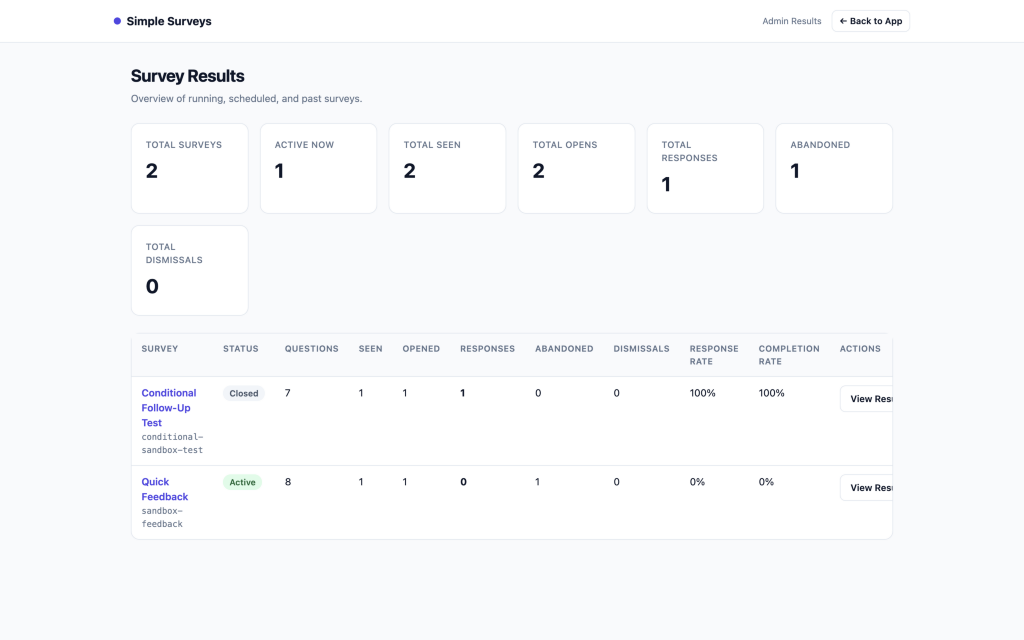
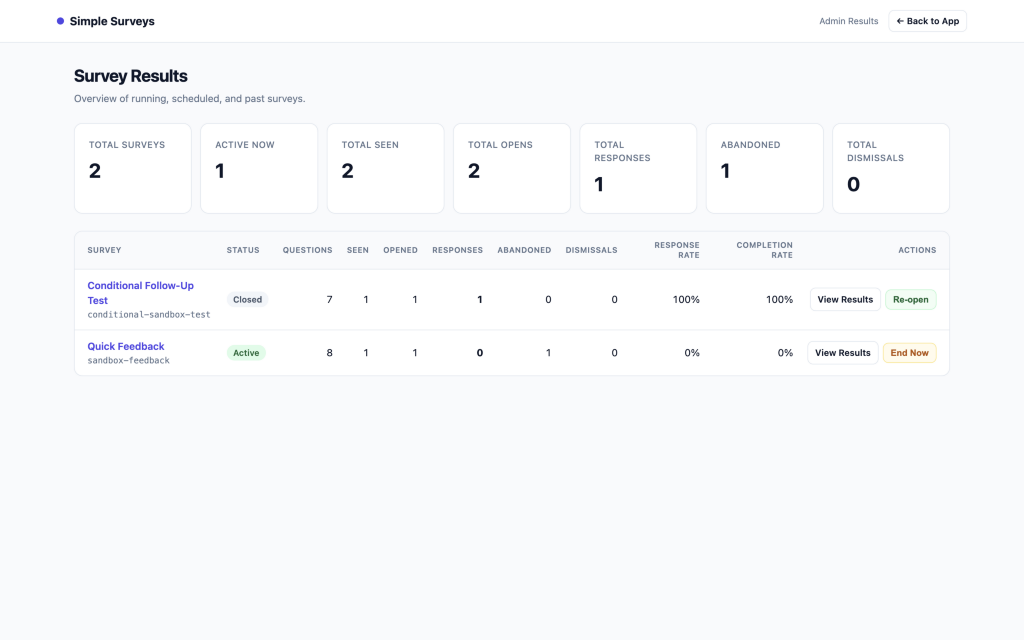
fix: prevent horizontal clipping on admin overview table and refresh screenshot

diff --git a/resources/views/admin/index.blade.php b/resources/views/admin/index.blade.php
@@ -52,27 +52,27 @@
         </div>
     </div>
 
-    <div class="card" style="padding: 0;">
+    <div class="card" style="padding: 0; overflow: hidden;">
         @if ($summaries->isEmpty())
             <div class="empty">
                 No surveys found yet. Register a survey in your application using <code>SimpleSurveys::register(...)</code>.
             </div>
         @else
             <div class="table-wrap">
-                <table>
+                <table class="table-surveys">
                     <thead>
                         <tr>
                             <th>Survey</th>
                             <th>Status</th>
-                            <th>Questions</th>
-                            <th>Seen</th>
-                            <th>Opened</th>
-                            <th>Responses</th>
-                            <th>Abandoned</th>
-                            <th>Dismissals</th>
-                            <th title="Responses / Seen">Response Rate</th>
-                            <th title="Responses / Opened">Completion Rate</th>
-                            <th>Actions</th>
+                            <th class="col-num">Questions</th>
+                            <th class="col-num">Seen</th>
+                            <th class="col-num">Opened</th>
+                            <th class="col-num">Responses</th>
+                            <th class="col-num">Abandoned</th>
+                            <th class="col-num">Dismissals</th>
+                            <th class="col-rate" title="Responses / Seen">Response Rate</th>
+                            <th class="col-rate" title="Responses / Opened">Completion Rate</th>
+                            <th class="col-actions">Actions</th>
                         </tr>
                     </thead>
                     <tbody>
@@ -84,7 +84,7 @@
                                     </a>
                                     <div class="muted" style="font-size: 12px;"><code>{{ $survey['key'] }}</code></div>
                                 </td>
-                                <td>
+                                <td style="white-space: nowrap;">
                                     <span class="badge badge-{{ $survey['status']->value }}">
                                         {{ $survey['status']->value }}
                                     </span>
@@ -92,29 +92,29 @@
                                         <span class="badge badge-closed">archived</span>
                                     @endif
                                 </td>
-                                <td>{{ $survey['questions_count'] }}</td>
-                                <td>{{ $survey['impressions_count'] }}</td>
-                                <td>{{ $survey['opens_count'] }}</td>
-                                <td><strong>{{ $survey['responses_count'] }}</strong></td>
-                                <td>{{ $survey['abandoned_count'] }}</td>
-                                <td>{{ $survey['dismissals_count'] }}</td>
-                                <td>
+                                <td class="col-num">{{ $survey['questions_count'] }}</td>
+                                <td class="col-num">{{ $survey['impressions_count'] }}</td>
+                                <td class="col-num">{{ $survey['opens_count'] }}</td>
+                                <td class="col-num"><strong>{{ $survey['responses_count'] }}</strong></td>
+                                <td class="col-num">{{ $survey['abandoned_count'] }}</td>
+                                <td class="col-num">{{ $survey['dismissals_count'] }}</td>
+                                <td class="col-num">
                                     @if ($survey['response_rate'] !== null)
                                         {{ $survey['response_rate'] }}%
                                     @else
                                         <span class="muted">—</span>
                                     @endif
                                 </td>
-                                <td>
+                                <td class="col-num">
                                     @if ($survey['completion_rate'] !== null)
                                         {{ $survey['completion_rate'] }}%
                                     @else
                                         <span class="muted">—</span>
                                     @endif
                                 </td>
-                                <td style="white-space: nowrap;">
+                                <td class="col-actions">
                                     <div style="display: inline-flex; align-items: center; gap: 6px;">
-                                        <a href="{{ route('simple-surveys.admin.show', $survey['key']) }}" class="btn">
+                                        <a href="{{ route('simple-surveys.admin.show', $survey['key']) }}" class="btn btn-sm">
                                             View Results
                                         </a>
 
@@ -129,7 +129,7 @@
                                                 data-confirm-variant="warning"
                                             >
                                                 @csrf
-                                                <button type="submit" class="btn btn-warning">End Now</button>
+                                                <button type="submit" class="btn btn-sm btn-warning">End Now</button>
                                             </form>
                                         @elseif ($survey['registered'] && $survey['status'] === SurveyStatus::Closed)
                                             <form
@@ -142,7 +142,7 @@
                                                 data-confirm-variant="success"
                                             >
                                                 @csrf
-                                                <button type="submit" class="btn btn-success">Re-open</button>
+                                                <button type="submit" class="btn btn-sm btn-success">Re-open</button>
                                             </form>
                                         @endif
                                     </div>

diff --git a/resources/views/admin/layout.blade.php b/resources/views/admin/layout.blade.php
@@ -38,7 +38,7 @@
             padding: 14px 24px;
         }
         .topbar-inner {
-            max-width: 1120px;
+            max-width: 1280px;
             margin: 0 auto;
             display: flex;
             align-items: center;
@@ -61,7 +61,7 @@
             background: var(--accent);
         }
         .container {
-            max-width: 1120px;
+            max-width: 1280px;
             margin: 0 auto;
             padding: 28px 24px 64px;
         }
@@ -86,8 +86,8 @@
         }
         .kpi-grid {
             display: grid;
-            grid-template-columns: repeat(auto-fit, minmax(155px, 1fr));
-            gap: 16px;
+            grid-template-columns: repeat(auto-fit, minmax(150px, 1fr));
+            gap: 12px;
             margin-bottom: 24px;
         }
         .card {
@@ -141,6 +141,11 @@
             cursor: pointer;
         }
         .btn:hover { background: var(--bg); text-decoration: none; }
+        .btn-sm {
+            padding: 6px 10px;
+            font-size: 12.5px;
+            white-space: nowrap;
+        }
         .btn-primary {
             background: var(--accent);
             border-color: var(--accent);
@@ -292,6 +297,37 @@
             letter-spacing: 0.04em;
             color: var(--muted);
             background: #f8fafc;
+        }
+        .table-surveys th,
+        .table-surveys td {
+            padding: 12px 10px;
+            vertical-align: middle;
+        }
+        .table-surveys th {
+            font-size: 11px;
+            line-height: 1.3;
+        }
+        .table-surveys th:first-child,
+        .table-surveys td:first-child {
+            padding-left: 18px;
+        }
+        .table-surveys th:last-child,
+        .table-surveys td:last-child {
+            padding-right: 18px;
+        }
+        .table-surveys .col-num {
+            text-align: right;
+            font-variant-numeric: tabular-nums;
+            white-space: nowrap;
+        }
+        .table-surveys th.col-rate {
+            text-align: right;
+            white-space: normal;
+        }
+        .table-surveys td.col-actions,
+        .table-surveys th.col-actions {
+            text-align: right;
+            white-space: nowrap;
         }
         tr:last-child td { border-bottom: none; }
         .muted { color: var(--muted); }
